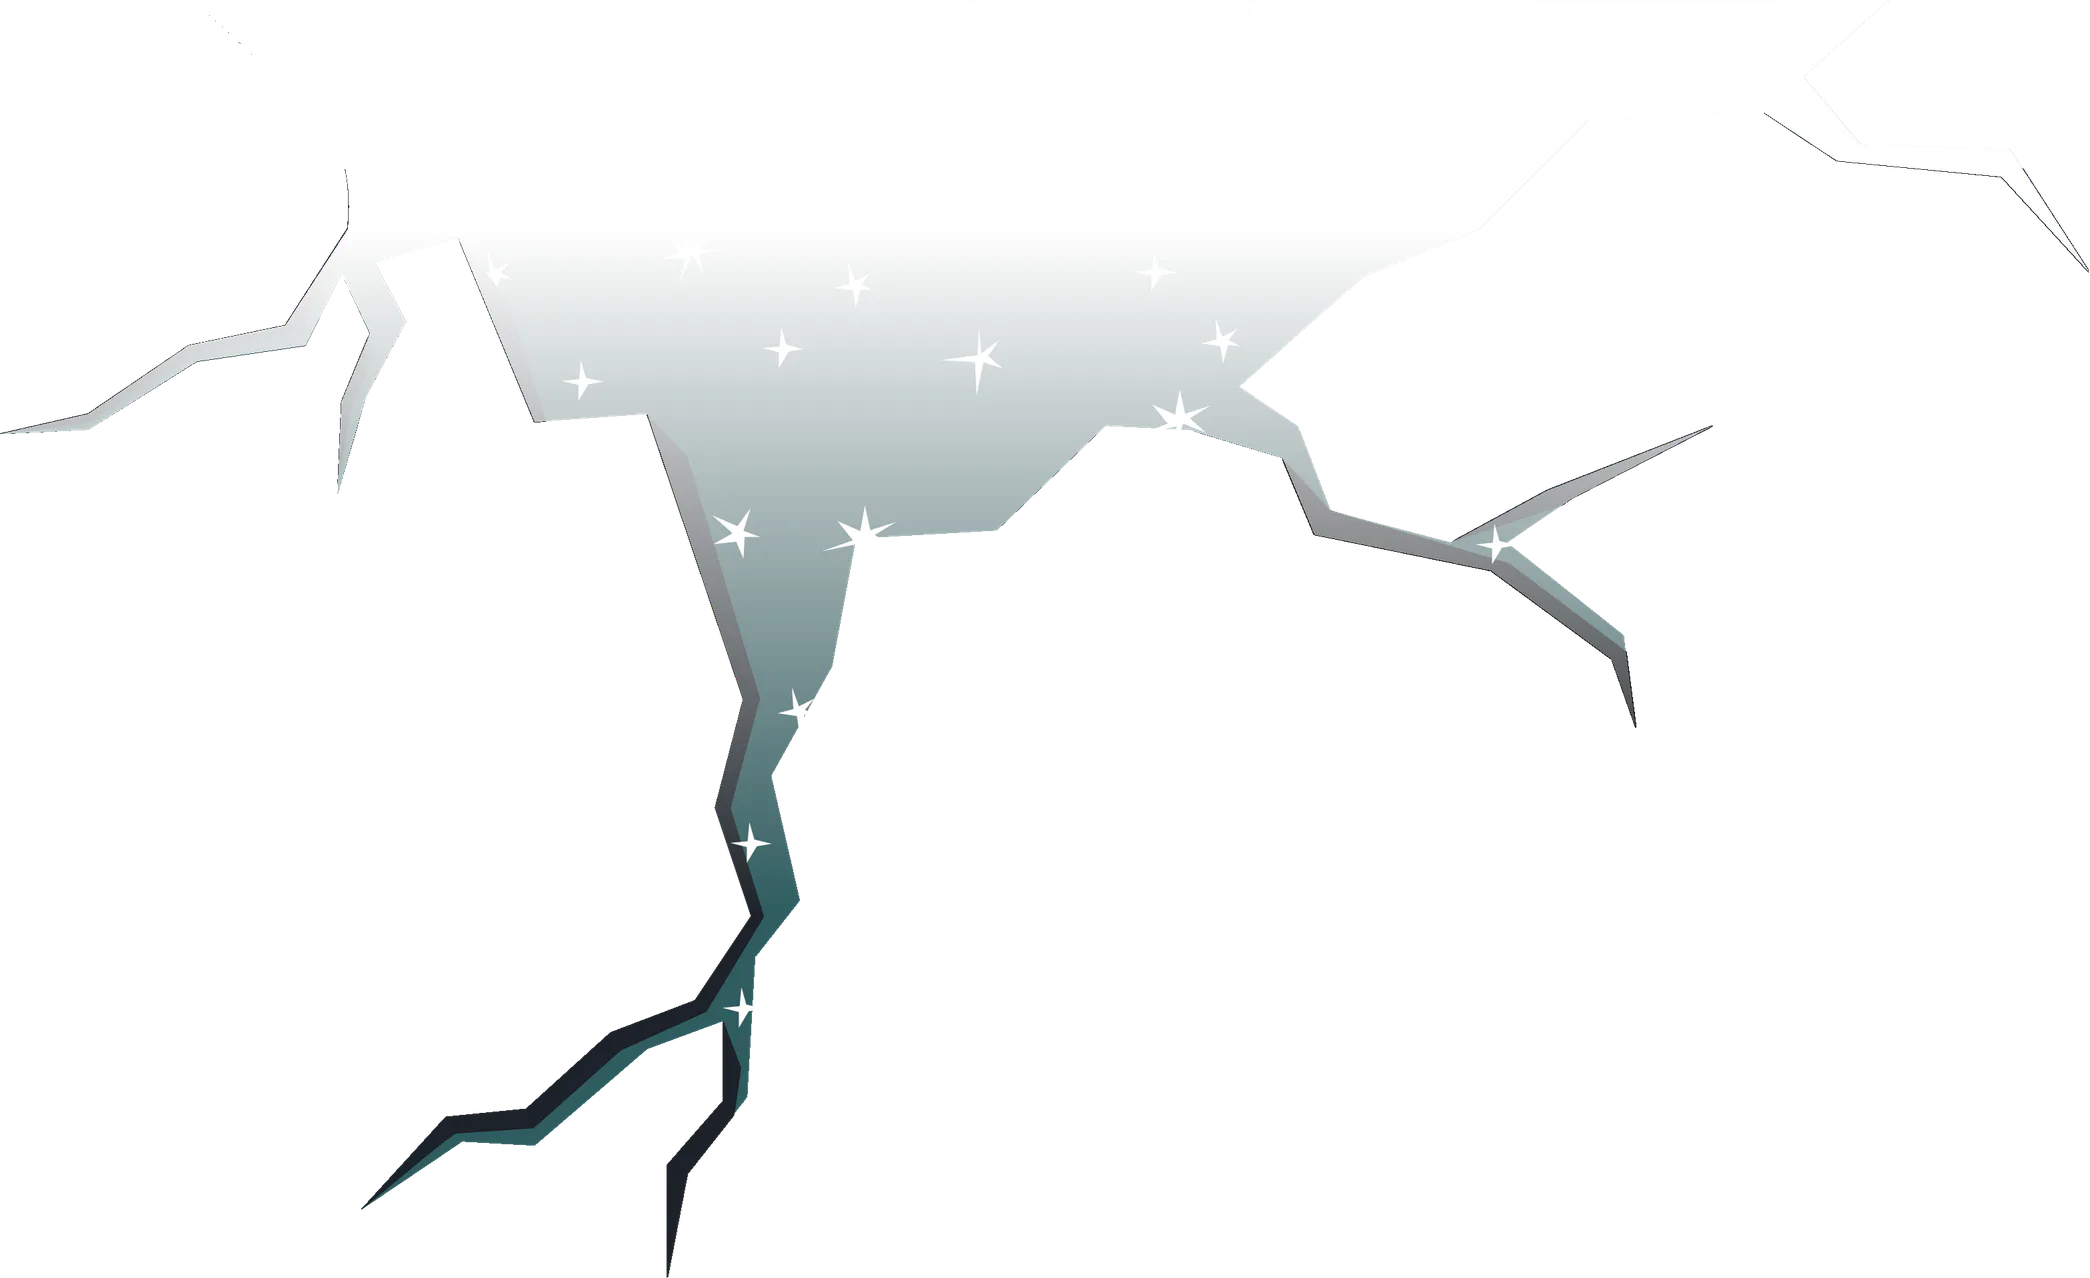
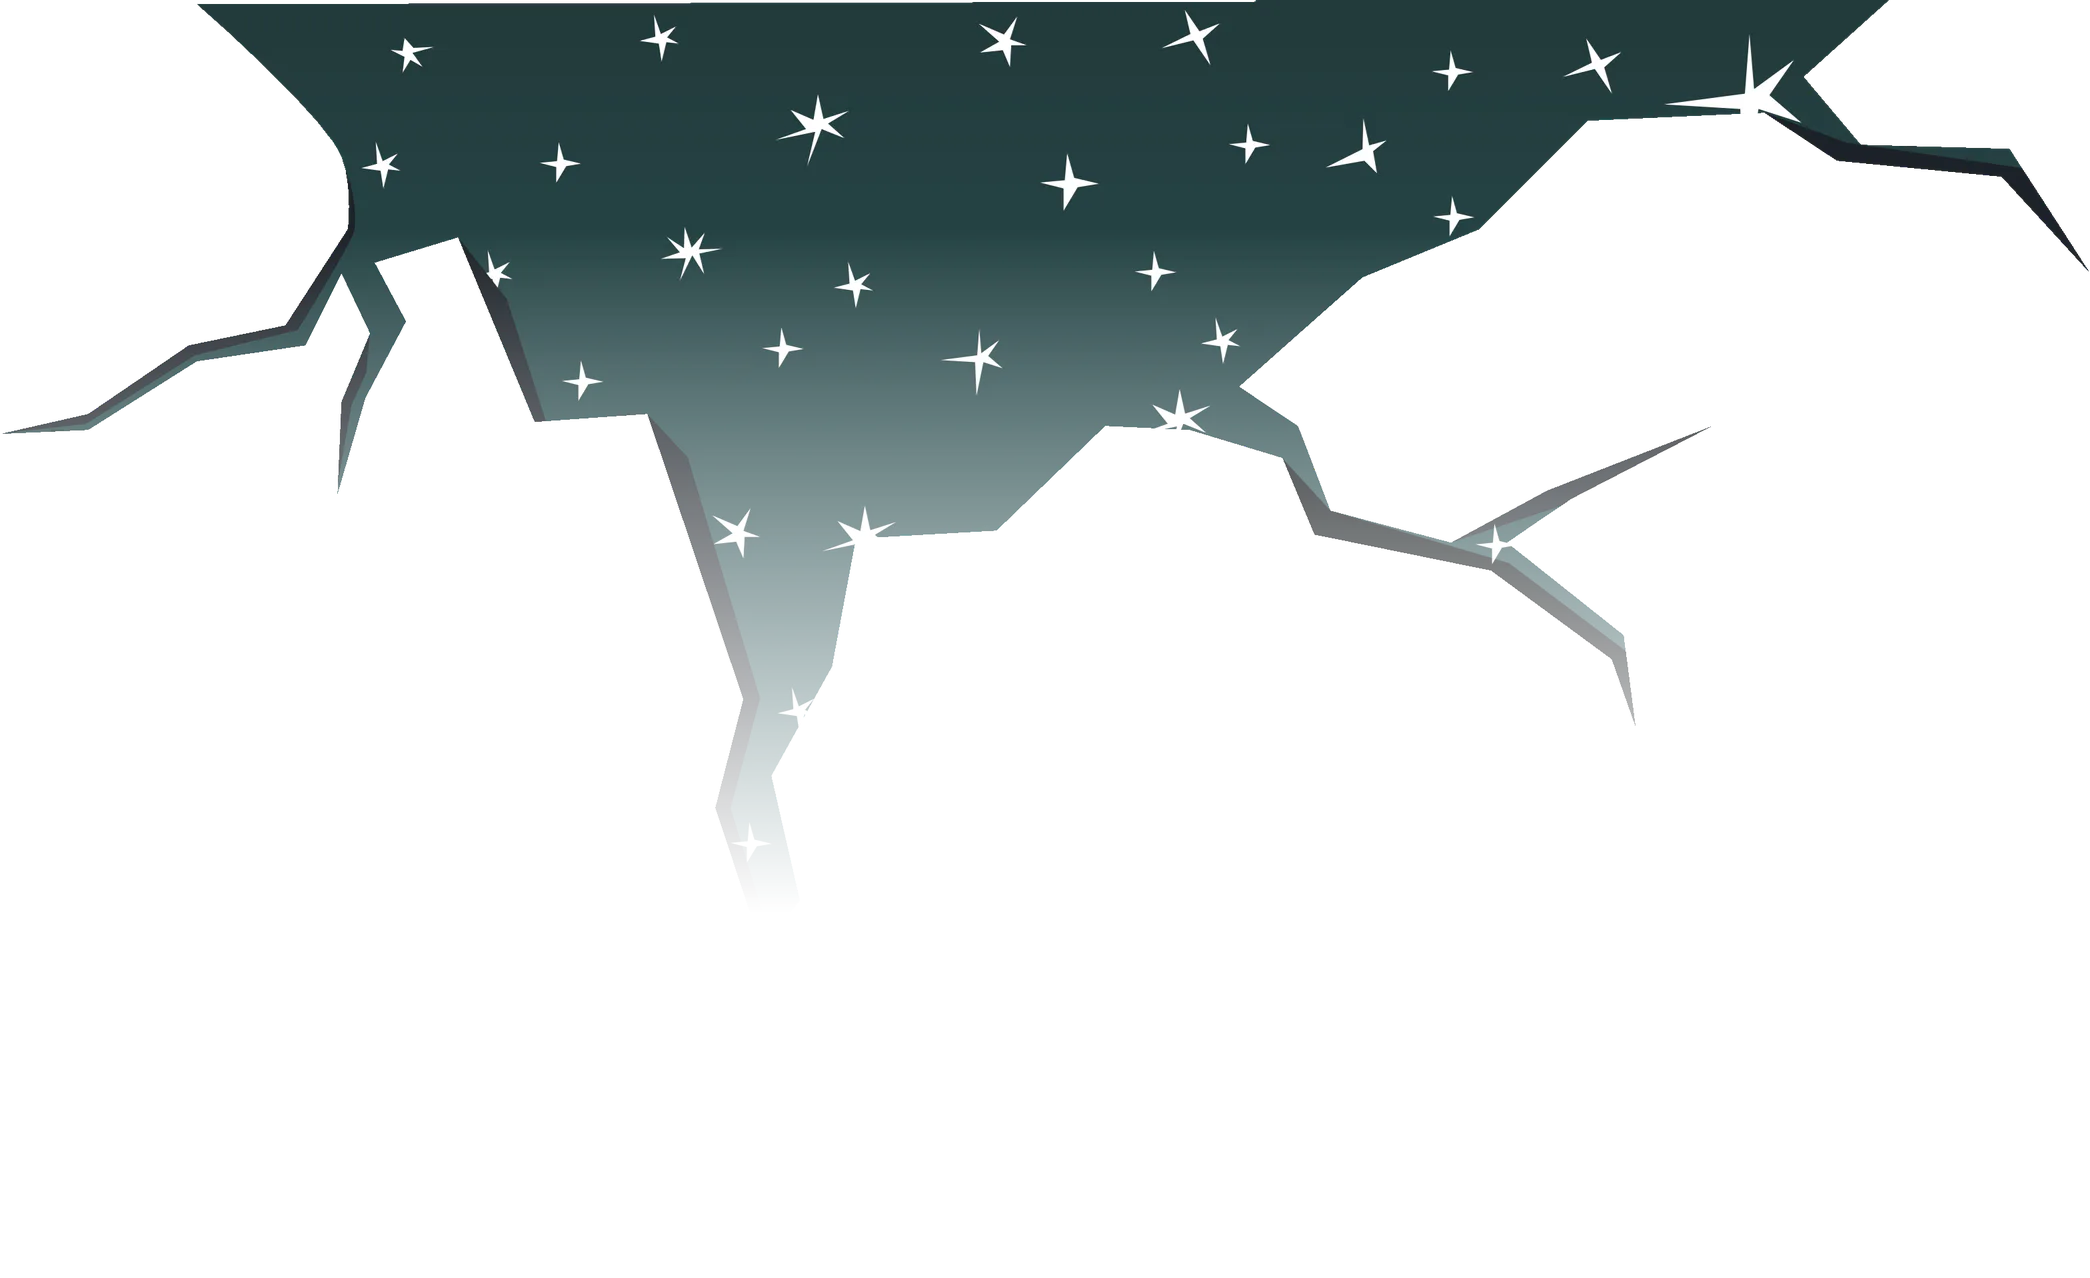
🐛 FIX: Groddle Ladder's sky crack shows the starry night, not its white mask
- G1173: skyCrack_01_masked drew a white fade over the crack. The deco's own code masks its art with
  that fade (MainTimeline frame1: masked.mask = topmask, both cacheAsBitmap, an alpha mask), so
  Flash drew the crack fading out and the fade itself never; FFDec's render and SVG drew both.
- build.py SCRIPT_MASKS renders such a deco's art and mask apart and multiplies the alphas; sharp.py
  turns the SVG's mask child into an alpha <mask> round the masked child. Re-rendered the 2x, 3x
  and SVG copies.
- Sweep: of 6055 location SWFs only this deco masks from code; the streets place it once.
- Rebuilt deco-palette.json and style-profiles.json (the file sizes they record).
- Test: tests/deco-script-masks.test.js

diff --git a/tests/deco-script-masks.test.js b/tests/deco-script-masks.test.js
@@ -1,0 +1,82 @@
+/**
+ * G1173: Groddle Ladder's sky crack (skyCrack_01_masked) drew its white mask on top instead of the
+ * starry night. The deco's own code masks one child with another (MainTimeline frame1:
+ * masked.mask = topmask, both cacheAsBitmap: an alpha mask), so Flash drew the crack fading out
+ * under a white gradient it never showed; FFDec's static render and SVG export draw the mask as art.
+ * tools/deco-pipeline/build.py SCRIPT_MASKS renders the art and the mask apart and multiplies the
+ * alphas, and sharp.py turns the SVG's mask child into an alpha <mask>. A sweep of every location
+ * SWF's ABC for the mask property found this one deco; the streets place it once.
+ * Run: node --test tests/deco-script-masks.test.js   (pixel checks need dwebp)
+ */
+import assert from 'node:assert/strict';
+import { execFileSync } from 'node:child_process';
+import { readFileSync, readdirSync } from 'node:fs';
+import { describe, it } from 'node:test';
+
+const ROOT = new URL('../', import.meta.url);
+const read = (p) => readFileSync(new URL(p, ROOT), 'utf8');
+let dwebp = true;
+try { execFileSync('dwebp', ['-version'], { stdio: 'ignore' }); } catch { dwebp = false; }
+
+/** RGBA pixels of a WebP (dwebp -pam). */
+function pixels(path) {
+  const b = execFileSync('dwebp', ['-quiet', '-pam', new URL(path, ROOT).pathname, '-o', '-'], { maxBuffer: 1 << 28 });
+  const head = b.toString('latin1', 0, 128);
+  const w = Number(/WIDTH (\d+)/.exec(head)[1]);
+  const h = Number(/HEIGHT (\d+)/.exec(head)[1]);
+  return { w, h, d: b.subarray(head.indexOf('ENDHDR\n') + 7) };
+}
+
+const NAME = 'skyCrack_01_masked';
+
+describe('decos masked by their own code (G1173)', () => {
+  it('the build knows the deco and its two children, and the plan rows record it', () => {
+    assert.match(read('tools/deco-pipeline/build.py'), /SCRIPT_MASKS = \{\n\s+'skyCrack_01_masked': \('masked', 'topmask'\),\n\}/);
+    const row = read('tools/deco-pipeline/plan.json').split('\n').find((l) => l.startsWith(`{"name":"${NAME}"`));
+    assert.ok(row && JSON.parse(row.replace(/,$/, '')).script_mask?.join() === 'masked,topmask', 'plan.json row');
+  });
+
+  it('the shipped SVG masks the crack with topmask and never draws topmask as art', () => {
+    const svg = read(`public/assets/decos/groddle/${NAME}.svg`);
+    const mask = /<mask id="([^"]+)"[^>]*mask-type:alpha[^>]*>(<use[^>]*id="topmask"[^>]*\/>)<\/mask>/.exec(svg);
+    assert.ok(mask, 'topmask inside an alpha <mask>');
+    assert.equal(svg.split('id="topmask"').length, 2, 'topmask only once, inside the mask');
+    assert.match(svg, new RegExp(`<g mask="url\\(#${mask[1]}\\)"><use[^>]*id="masked"`));
+  });
+
+  it('the shipped WebPs show the starry crack at the top, not white, and fade out below', { skip: !dwebp && 'needs dwebp' }, () => {
+    for (const file of [`${NAME}.webp`, `${NAME}@1.5x.webp`]) {
+      const { w, h, d } = pixels(`public/assets/decos/groddle/${file}`);
+      const k = w / 2090;
+      let white = 0;
+      let opaque = 0;
+      for (let y = Math.round(20 * k); y < Math.round(200 * k); y += 3) {
+        for (let x = Math.round(600 * k); x < Math.round(1400 * k); x += 3) {
+          const i = (y * w + x) * 4;
+          if (d[i + 3] < 200) continue;
+          opaque += 1;
+          if (d[i] > 200 && d[i + 1] > 200 && d[i + 2] > 200) white += 1;
+        }
+      }
+      assert.ok(opaque > 1000, `${file}: the crack's top is drawn`);
+      assert.ok(white / opaque < 0.05, `${file}: ${Math.round((100 * white) / opaque)}% of the crack's top is the white mask`);
+      // Below the mask's fade the crack is gone (the sky layer's skyCrack_01 behind it shows).
+      // (Before: the crack drawn whole there, mean alpha 22 of 255.)
+      let low = 0;
+      let n = 0;
+      for (let y = Math.round(900 * k); y < Math.min(h, Math.round(1200 * k)); y += 3) {
+        for (let x = Math.round(200 * k); x < Math.round(1000 * k); x += 3) { low += d[(y * w + x) * 4 + 3]; n += 1; }
+      }
+      assert.ok(low / n < 1, `${file}: the lower crack fades out (mean alpha ${(low / n).toFixed(1)})`);
+    }
+  });
+
+  it('every *_masked deco a street places is one the build masks', () => {
+    const masked = new Set();
+    for (const f of readdirSync(new URL('public/assets/streets/', ROOT))) {
+      if (!f.endsWith('.json') || f === 'index.json') continue;
+      for (const m of read(`public/assets/streets/${f}`).matchAll(/"sprite": ?"([^"]*_masked)"/g)) masked.add(m[1]);
+    }
+    assert.deepEqual([...masked].sort(), [NAME]);
+  });
+});

diff --git a/tools/deco-pipeline/build.py b/tools/deco-pipeline/build.py
@@ -92,6 +92,7 @@ HIDDEN_BY_DEFAULT = ('sign',)
 # (FFDec's SVG export loses some multiply strata and overlay highlights). Firebog's ground fronts: their siblings with the same multiply/overlay structure
 # (front_ground_2, _3, _set_3) already ship FFDec's raster, which draws them like those.
 SWF_WINS = {
+    'skyCrack_01_masked': "the old PNG draws the deco's mask (topmask, a white fade) as art; its code masks the crack with it (SCRIPT_MASKS)",
     'front_ground_1': 'the old PNG draws the overlay highlight columns opaque (its siblings and FFDec do not)',
     'front_ground_set_1': "the old PNG is the same art about 10 px lower and 3% taller than the SWF's stage",
     'front_ground_set_2': "the old PNG is front_ground_set_1's art",
@@ -150,6 +151,16 @@ OVERLAY_AS_NORMAL = {
     'underground_bogwillow_3': 0.5,
 }
 
+# Decos whose own code masks one root child with another (G1173): Flash drew `masked` with its alpha
+# multiplied by `mask`'s (both cacheAsBitmap, an alpha mask) and drew `mask` itself not at all, while
+# FFDec's static render draws both. Each is rendered twice, without its mask child and with only it,
+# and the two alphas multiplied (script_mask_composite). A sweep of every location SWF's ABC for the
+# `mask` property (2026-11-24, 6055 SWFs) finds one deco: skyCrack_01_masked (MainTimeline frame1:
+# masked.mask = topmask; Groddle Ladder, before its starry sky). tests/deco-script-masks.test.js.
+SCRIPT_MASKS = {
+    'skyCrack_01_masked': ('masked', 'topmask'),
+}
+
 SETTINGS = {
     'version': 1,
     'zoom': 3,              # FFDec zoom for the render both sizes come from (more for denser PNGs)
@@ -199,6 +210,29 @@ def default_state(swf, work):
     if soft:
         swfinfo.root_blend_normal(src, out, 13, soft)
     return out, hide
+
+
+def script_mask_state(name, swf, work):
+    """(art SWF, mask SWF) for a SCRIPT_MASKS deco: the deco without its mask child, and with only it."""
+    masked, mask = SCRIPT_MASKS[name]
+    base = os.path.join(work, 'script-mask', name)
+    os.makedirs(base, exist_ok=True)
+    art, only = os.path.join(base, 'art.swf'), os.path.join(base, 'mask.swf')
+    swfinfo.drop_root_places(swf, art, {mask})
+    swfinfo.drop_root_places(swf, only, {masked})
+    return art, only
+
+
+def script_mask_composite(art_png, mask_png, out_png):
+    """The art render with its alpha multiplied by the mask render's (Flash's alpha mask)."""
+    art = np.asarray(Image.open(art_png).convert('RGBA')).copy()
+    mask = np.asarray(Image.open(mask_png).convert('RGBA'))
+    h, w = min(art.shape[0], mask.shape[0]), min(art.shape[1], mask.shape[1])
+    alpha = np.zeros(art.shape[:2], np.float32)
+    alpha[:h, :w] = mask[:h, :w, 3] / 255.0
+    art[..., 3] = np.round(art[..., 3] * alpha).astype(np.uint8)
+    Image.fromarray(art, 'RGBA').save(out_png)
+    return out_png
 
 
 def png_size(path):
@@ -557,9 +591,10 @@ def expect_swf(row):
     return same_art(row['diff']) or bool(row.get('svg_ok')) or row.get('name') in SWF_WINS
 
 
-def inputs_key(name, mode, swf_sha, src_sha, svg_ok=None, hidden=None):
+def inputs_key(name, mode, swf_sha, src_sha, svg_ok=None, hidden=None, script_mask=None):
     keep = {k: SETTINGS[k] for k in SETTINGS if k not in DECISION}
     parts = [name, mode, swf_sha, src_sha, svg_ok, keep] + ([hidden] if hidden else [])
+    parts += [['script_mask', script_mask]] if script_mask else []
     parts += [['overlay', OVERLAY_AS_NORMAL[name]]] if name in OVERLAY_AS_NORMAL else []
     return hashlib.sha256(json.dumps(parts, sort_keys=True).encode()).hexdigest()[:20]
 
@@ -699,6 +734,9 @@ def cmd_build(args):
             d['_swf_path'], hidden = default_state(swf, work)
             if hidden:
                 d['hidden'] = hidden
+            if n in SCRIPT_MASKS:
+                d['_swf_path'], d['_mask_path'] = script_mask_state(n, d['_swf_path'], work)
+                d['script_mask'] = list(SCRIPT_MASKS[n])
             if n in OVERLAY_AS_NORMAL:
                 d['overlay'] = OVERLAY_AS_NORMAL[n]
         old = plan['decos'].get(n) or {}
@@ -708,7 +746,7 @@ def cmd_build(args):
         d['svg_ok'] = old.get('svg_ok') if old.get('swf_sha') == swf_sha else None
         if d['svg_ok'] is None:
             d.pop('svg_ok')
-        d['key'] = inputs_key(n, d['mode'], swf_sha, src_sha, d.get('svg_ok'), d.get('hidden'))
+        d['key'] = inputs_key(n, d['mode'], swf_sha, src_sha, d.get('svg_ok'), d.get('hidden'), d.get('script_mask'))
         done = (old.get('key') == d['key'] and os.path.exists(os.path.join(OUT, n + '.webp'))
                 and (not old.get('hires') or os.path.exists(os.path.join(OUT, n + '@1.5x.webp'))))
         if done and old.get('mode') == 'swf' and expect_swf(old) is False:
@@ -723,6 +761,7 @@ def cmd_build(args):
     with concurrent.futures.ThreadPoolExecutor(args.jobs) as pool:
         for d in pool.map(lambda d: emit_png(work, d), todo_png):
             d.pop('_swf_path', None)
+            d.pop('_mask_path', None)
             plan['decos'][d['name']] = d
     if todo_png:
         write_plan(plan)
@@ -742,8 +781,13 @@ def cmd_build(args):
             while i < len(ds) and len(batch) < args.batch and (not batch or px < 60e6):
                 batch.append(ds[i]); px += ds[i]['size2'][0] * ds[i]['size2'][1] * 2.25; i += 1
             t = time.time()
-            found, tmp = render_batch(work, zoom, [(d['name'], d['_swf_path']) for d in batch])
+            items = [(d['name'], d['_swf_path']) for d in batch]
+            items += [(d['name'] + '__mask', d['_mask_path']) for d in batch if d.get('_mask_path')]
+            found, tmp = render_batch(work, zoom, items)
             def one(d):
+                if d.get('_mask_path') and d['name'] in found and d['name'] + '__mask' in found:
+                    found[d['name']] = script_mask_composite(found[d['name']], found[d['name'] + '__mask'],
+                                                             os.path.join(work, d['name'] + '-masked.png'))
                 if d['name'] not in found:
                     d['mode'] = 'png'
                     d['reason'] = 'no render: FFDec produced no frame'
@@ -754,6 +798,7 @@ def cmd_build(args):
             with concurrent.futures.ThreadPoolExecutor(args.jobs) as pool:
                 for d in pool.map(one, batch):
                     d.pop('_swf_path', None)
+                    d.pop('_mask_path', None)
                     plan['decos'][d['name']] = d
             for p in tmp:
                 shutil.rmtree(p, ignore_errors=True)

diff --git a/tools/deco-pipeline/sharp.py b/tools/deco-pipeline/sharp.py
@@ -605,6 +605,36 @@ def seal_svg(text):
     return ''.join(out)
 
 
+def render_rows(work, z, rows):
+    """build.render_batch for sharp rows: a SCRIPT_MASKS deco's art render with its alpha multiplied
+    by its mask's render (build.script_mask_composite, G1173)."""
+    items = [(r['name'], r['_swf']) for r in rows] + [(r['name'] + '__mask', r['_mask_swf']) for r in rows if r.get('_mask_swf')]
+    found, tmp = build.render_batch(work, z, items)
+    for r in rows:
+        if r.get('_mask_swf') and r['name'] in found and r['name'] + '__mask' in found:
+            found[r['name']] = build.script_mask_composite(found[r['name']], found.pop(r['name'] + '__mask'),
+                                                           os.path.join(work, f"{r['name']}-z{z}-masked.png"))
+    return found, tmp
+
+
+def script_mask_svg(text, masked, mask):
+    """FFDec's SVG of a deco whose code masks root child `masked` with root child `mask` (build.py
+    SCRIPT_MASKS, G1173): the mask's <use> moves into an alpha <mask> that the masked <use> takes,
+    so the browser draws what Flash did (FFDec's export draws the mask as art)."""
+    use = re.search(r'<use\b[^>]*\bid="' + re.escape(mask) + r'"[^>]*/>', text)
+    art = re.search(r'<use\b[^>]*\bid="' + re.escape(masked) + r'"[^>]*/>', text)
+    if not use or not art:
+        raise ValueError(f'script mask: no <use id="{masked}"> and <use id="{mask}">')
+    mid = f'script-mask-{mask}'
+    box = 'x="-100000" y="-100000" width="200000" height="200000"'
+    defs = f'<mask id="{mid}" maskUnits="userSpaceOnUse" {box} style="mask-type:alpha">{use.group(0)}</mask>'
+    text = text.replace(use.group(0), '', 1)
+    # On a group round the masked <use>, so the mask is in the space the two siblings share (on the
+    # <use> itself the browser measures it in the <use>'s own space).
+    text = text.replace(art.group(0), f'<g mask="url(#{mid})">{art.group(0)}</g>', 1)
+    return text.replace('<defs>', '<defs>' + defs, 1) if '<defs>' in text else text.replace('</svg>', f'<defs>{defs}</defs></svg>', 1)
+
+
 def export_svgs(work, items):
     """items [(name, swf)] -> {name: svg text}; one JVM per batch."""
     src = os.path.join(work, 'src-svg')
@@ -703,7 +733,10 @@ SIZING = ('R', 'ratio_min', 'front_min', 'edge_min', 'outline_ratio', 'target', 
 
 def row_key(r, prow):
     keep = {k: SETTINGS[k] for k in SETTINGS if k not in SIZING}
-    return hashlib.sha256(json.dumps([r['name'], prow.get('swf_sha'), r.get('edge_of'), keep], sort_keys=True).encode()).hexdigest()[:20]
+    parts = [r['name'], prow.get('swf_sha'), r.get('edge_of'), keep]
+    # G1173: a deco its own code masks (build.py SCRIPT_MASKS) is redone when that changes.
+    parts += [['script_mask', list(build.SCRIPT_MASKS[r['name']])]] if r['name'] in build.SCRIPT_MASKS else []
+    return hashlib.sha256(json.dumps(parts, sort_keys=True).encode()).hexdigest()[:20]
 
 
 def out_files(r):
@@ -756,6 +789,11 @@ def cmd_build(args):
             continue
         # In the state the client drew it by default (build.py HIDDEN_BY_DEFAULT: no For Sale sign).
         r['_swf'] = build.default_state(audit.swf_path(prow['swf'], work, index), work)[0]
+        if r['name'] in build.SCRIPT_MASKS:
+            # G1173: the SVG from the whole deco (its mask becomes an SVG mask, script_mask_svg), the
+            # rasters from its art and its mask apart, the alphas multiplied (render_rows).
+            r['_svg_swf'] = r['_swf']
+            r['_swf'], r['_mask_swf'] = build.script_mask_state(r['name'], r['_swf'], work)
         r['base'] = 1.5 if prow.get('hires') else 1
         r['stage'] = prow['stage']
         r['_prow'] = prow
@@ -809,8 +847,11 @@ def seam_reference(r, refs):
 
 def build_chunk(work, chunk, args):
     S = SETTINGS
-    items = [(r['name'], r['_swf']) for r in chunk]
+    items = [(r['name'], r.get('_svg_swf') or r['_swf']) for r in chunk]
     svgs = export_svgs(work, items)
+    for r in chunk:
+        if r['name'] in build.SCRIPT_MASKS and svgs.get(r['name']):
+            svgs[r['name']] = script_mask_svg(svgs[r['name']], *build.SCRIPT_MASKS[r['name']])
     # Check renders: FFDec raster at a zoom giving check_side, stage resampled to the check size.
     groups = collections.defaultdict(list)
     for r in chunk:
@@ -824,7 +865,7 @@ def build_chunk(work, chunk, args):
     shutil.rmtree(cdir, ignore_errors=True)
     os.makedirs(cdir)
     for z, rs in groups.items():
-        found, tmp = build.render_batch(work, z, [(r['name'], r['_swf']) for r in rs])
+        found, tmp = render_rows(work, z, rs)
         for r in rs:
             if r['name'] in found:
                 # Seams sealed as in build.py's files (G1162): the SVG is checked against the art Flash drew.
@@ -896,7 +937,7 @@ def build_chunk(work, chunk, args):
     for z, rs in g2.items():
         for j in range(0, len(rs), 8):
             sub = rs[j:j + 8]
-            found, tmp = build.render_batch(work, z, [(r['name'], r['_swf']) for r in sub])
+            found, tmp = render_rows(work, z, sub)
             for r in sub:
                 if r['name'] not in found:
                     r['kind'] = None
